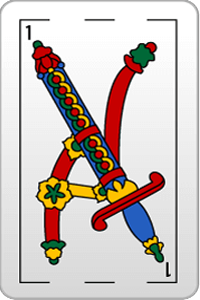
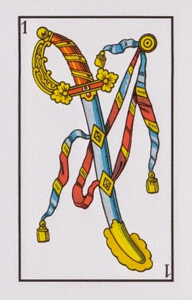
repartirCartasListo

diff --git a/UI/MainWindow.xaml b/UI/MainWindow.xaml
@@ -86,6 +86,16 @@
         Width="100" Height="30"
         Click="BtnFaltaEnvido_Click"/>
 
+        <TextBlock x:Name="TxtMensajes"
+           Canvas.Left="442"
+           Canvas.Top="255"
+           FontSize="14"
+           Foreground="White"
+           Width="448"
+           Height="75"
+           TextWrapping="Wrap"
+           Text="Mensajes del juego aparecerán aquí..." HorizontalAlignment="Left" VerticalAlignment="Top"/>
+
 
 
 

diff --git a/UI/MainWindow.xaml.cs b/UI/MainWindow.xaml.cs
@@ -31,6 +31,15 @@ namespace AppTrucoMesaVisual
 
         private void BtnRepartir_Click(object sender, RoutedEventArgs e)
         {
+            ControlJuego.IniciarRonda();
+            if (ControlJuego.ManoJugador.Count < 3 || ControlJuego.ManoIA.Count < 3)
+            {
+                MessageBox.Show("Error: no se repartieron 3 cartas. Jugador: "
+                    + ControlJuego.ManoJugador.Count + " - IA: "
+                    + ControlJuego.ManoIA.Count);
+                return;
+            }
+
             var cartasJugador = new[] { CartaAnimada1, CartaAnimada2, CartaAnimada3 };
             var cartasIA = new[] { CartaOponente1, CartaOponente2, CartaOponente3 };
             var destinosJugadorX = new[] { 524.0, 658.0, 788.0 };
@@ -40,17 +49,16 @@ namespace AppTrucoMesaVisual
 
             bool picar = ChkPicar.IsChecked == true;
 
-            string[] carasJugador = {
-                "pack://application:,,,/Recursos/1_espada.png",
-                "pack://application:,,,/Recursos/2_espada.png",
-                "pack://application:,,,/Recursos/3_espada.png"
-            };
+            string[] carasJugador = ControlJuego.ManoJugador
+                .Select(nombre => $"pack://application:,,,/AppTrucoMesaVisual;component/Recursos/{nombre}.png")
+                .ToArray();
 
-                    string[] carasIA = {
-                "pack://application:,,,/Recursos/dorso.png",
-                "pack://application:,,,/Recursos/dorso.png",
-                "pack://application:,,,/Recursos/dorso.png"
-            };
+
+            string[] carasIA = ControlJuego.ManoIA
+                .Select(nombre => $"pack://application:,,,/AppTrucoMesaVisual;component/Recursos/{nombre}.png")
+                .ToArray();
+
+
 
             if (picar)
             {

diff --git a/Core/ControlJuego.cs b/Core/ControlJuego.cs
@@ -14,8 +14,10 @@ namespace AppTrucoMesaVisual.Core
         public static EstadoGeneral Estado { get; private set; } = EstadoGeneral.EsperandoInicio;
         public static SubEstadoJugada SubEstado { get; private set; } = SubEstadoJugada.Nada;
         public static List<TipoEnvido> CantosEnvidoActuales { get; private set; } = new();
+        public static List<string> MazoActual { get; private set; } = new();
+        public static List<string> ManoJugador { get; private set; } = new();
+        public static List<string> ManoIA { get; private set; } = new();
 
-        
         // ------------------------
         // INICIO Y CICLO GENERAL
         // ------------------------
@@ -26,11 +28,21 @@ namespace AppTrucoMesaVisual.Core
             SubEstado = SubEstadoJugada.Nada;
         }
 
+        public static void PrepararRonda()
+        {
+            MazoActual = Mazo.GenerarCartas();
+            ManoJugador = Mazo.ObtenerMano(MazoActual, 0);
+            ManoIA = Mazo.ObtenerMano(MazoActual, 3);
+            ResetearCantosEnvido();
+        }
+
         public static void IniciarRonda()
         {
+            PrepararRonda(); // llama la lógica
             Estado = EstadoGeneral.Repartiendo;
             SubEstado = SubEstadoJugada.Nada;
         }
+
 
         public static void FinalizarRonda()
         {
@@ -168,6 +180,10 @@ namespace AppTrucoMesaVisual.Core
                 FinalizarRonda();
             }
         }
+
+
+
+
 
 
 

diff --git a/Core/Mazo.cs b/Core/Mazo.cs
@@ -1,0 +1,38 @@
+using System;
+using System.Collections.Generic;
+using System.Linq;
+using System.Text;
+using System.Threading.Tasks;
+
+namespace AppTrucoMesaVisual.Core
+{
+    public static class Mazo
+    {
+        private static Random rng = new();
+
+        public static List<string> GenerarCartas()
+        {
+            var cartas = new List<string>();
+
+            for (int i = 1; i <= 12; i++)
+            {
+                if (i == 8 || i == 9) continue; // opcional si usás mazo español clásico
+                cartas.Add($"{i}_espada");
+                cartas.Add($"{i}_basto");
+                cartas.Add($"{i}_oro");
+                cartas.Add($"{i}_copa");
+               
+
+            }
+
+            return cartas.OrderBy(x => rng.Next()).ToList(); // baraja
+        }
+
+        public static List<string> ObtenerMano(List<string> mazo, int inicio)
+        {
+            return mazo.Skip(inicio).Take(3).ToList();
+        }
+
+    }
+
+}
